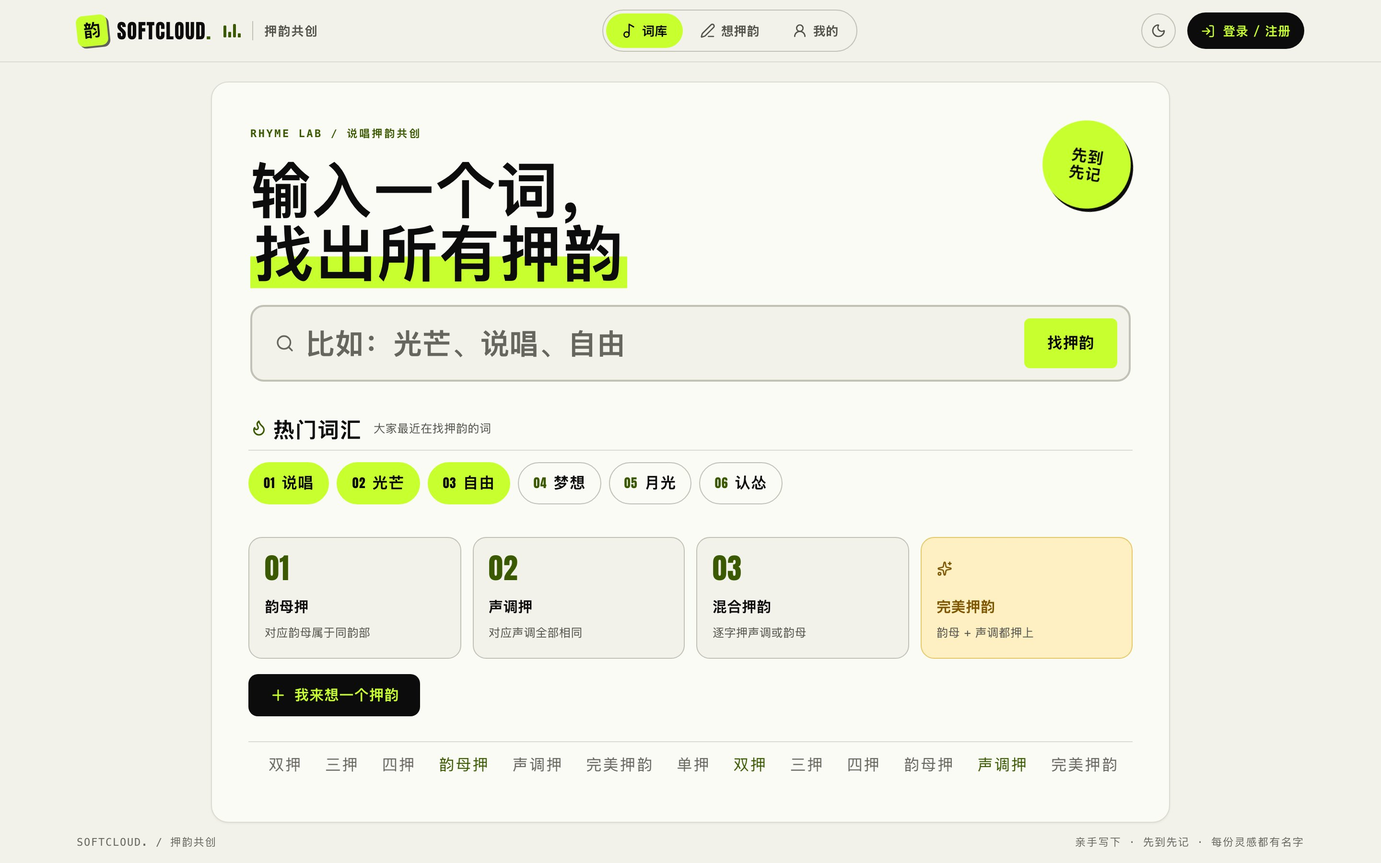
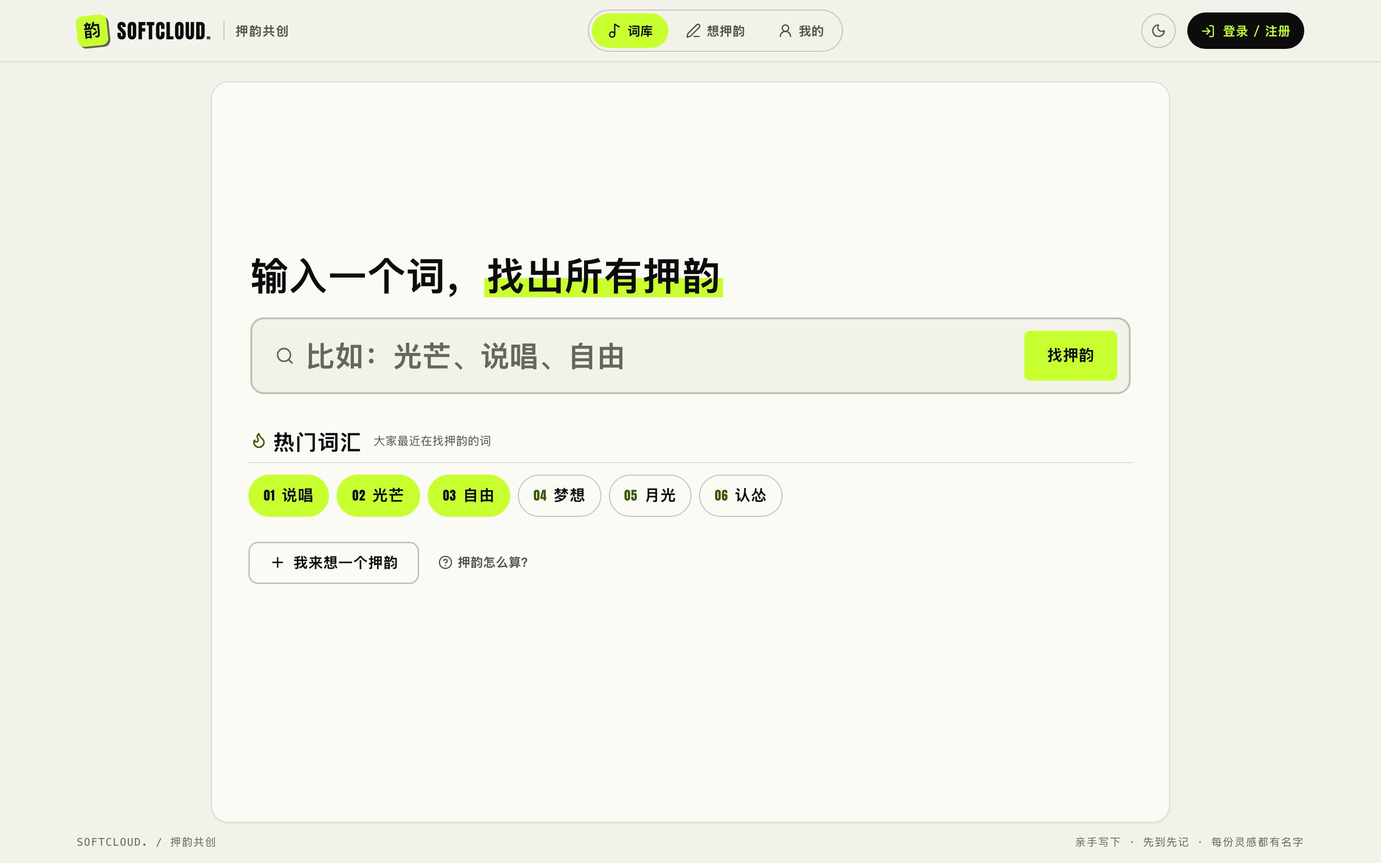
Simplify the homepage: search first, rules behind one link (#8)
The homepage had nine things competing for attention. Keep what the page
is for: a one-line headline, the search box, one row of hot words, and a
quiet 我来想一个押韵 button.

- The four rule cards move into a 押韵怎么算？ sheet (new RulesSheet),
  the single place the scoring rules are explained.
- Remove the RHYME LAB eyebrow, the 先到先记 sticker, the scrolling
  ticker and the header equalizer; 先到先记 now appears in the success
  message after a save, where it is true.
- Desktop centers the idle search; phones keep the headline on one line
  down to 320px. Drops the styles nothing uses any more.

diff --git a/src/style.css b/src/style.css
@@ -110,8 +110,6 @@ select{color:var(--sc-text)}
 @keyframes sc-pop{from{opacity:0;transform:translateY(14px) scale(.97)}to{opacity:1;transform:none}}
 @keyframes sc-drop{0%{opacity:0;transform:translateY(-6px) rotate(var(--sc-tilt,0deg)) scale(1.2)}60%{opacity:1;transform:rotate(var(--sc-tilt,0deg)) scale(.94)}100%{transform:rotate(var(--sc-tilt,0deg)) scale(1)}}
 @keyframes sc-bounce{0%,100%{transform:rotate(var(--sc-tilt,0deg)) translateY(0)}35%{transform:rotate(var(--sc-tilt,0deg)) translateY(-3px)}}
-@keyframes sc-eq{0%,100%{transform:scaleY(.3)}50%{transform:scaleY(1)}}
-@keyframes sc-ticker{to{transform:translateX(-50%)}}
 @keyframes sc-thump{0%{transform:scale(1)}30%{transform:scale(.95)}100%{transform:scale(1)}}
 
 /* ---------- Primitives ---------- */
@@ -160,11 +158,6 @@ select{color:var(--sc-text)}
 .sc-brand:hover .sc-brand-mark{transform:rotate(4deg) scale(1.06)}
 .sc-wordmark{font-family:var(--sc-font-display);font-size:21px;font-weight:400;letter-spacing:.04em;text-transform:uppercase;line-height:1}
 .sc-dot{color:var(--sc-accent-text)}
-.sc-eq{display:inline-flex;align-items:flex-end;gap:2px;height:14px;margin-left:2px}
-.sc-eq i{display:block;width:3px;height:100%;border-radius:1px;background:var(--sc-accent-text);transform-origin:bottom;transform:scaleY(.4);animation:sc-eq var(--sc-beat) var(--sc-ease) infinite}
-.sc-eq i:nth-child(2){animation-delay:calc(var(--sc-beat) * -.5)}
-.sc-eq i:nth-child(3){animation-delay:calc(var(--sc-beat) * -.25)}
-.sc-eq i:nth-child(4){animation-delay:calc(var(--sc-beat) * -.75)}
 .sc-product-name{font-size:var(--sc-text-sm);font-weight:700;color:var(--sc-muted);letter-spacing:.06em;padding-left:12px;margin-left:2px;border-left:1px solid var(--sc-border-strong)}
 .sc-header nav{display:flex;gap:2px;margin:auto;padding:3px;border-radius:var(--sc-radius-pill);border:1px solid var(--sc-border-strong)}
 .sc-header nav button{display:flex;align-items:center;gap:6px;min-height:36px;padding:7px 16px;border-radius:var(--sc-radius-pill);color:var(--sc-muted);font-size:var(--sc-text-sm);font-weight:700;white-space:nowrap}
@@ -220,7 +213,6 @@ select{color:var(--sc-text)}
 .sc-finder-head{position:relative;flex-shrink:0;margin-bottom:var(--sc-space-4)}
 .sc-finder-head h2,.sc-start h2,.sc-group-title,.sc-profile-gate h2{word-break:keep-all;text-wrap:balance}
 .sc-finder-head h2{font-family:var(--sc-font-display);font-size:var(--sc-text-xl);font-weight:900;line-height:1.15;letter-spacing:.01em}
-.sc-finder-head .sc-sticker{display:none;top:0;right:0}
 .sc-tier-head{display:flex;align-items:center;flex-wrap:wrap;gap:4px var(--sc-space-3);padding:var(--sc-space-3) 2px 10px;border-bottom:1px solid var(--sc-border)}
 .sc-tier-head h3{display:inline-flex;align-items:center;gap:6px;font-family:var(--sc-font-display);font-size:var(--sc-text-xl);font-weight:900;line-height:1.15;letter-spacing:.04em}
 .sc-tier-head h3 svg{color:var(--sc-accent-text)}
@@ -233,9 +225,27 @@ select{color:var(--sc-text)}
 .sc-hot-list li:nth-child(-n+3) .sc-hot-word{background:var(--sc-accent);border-color:var(--sc-accent);color:var(--sc-on-accent)}
 .sc-hot-list li:nth-child(-n+3) .sc-hot-word>span{color:inherit}
 .sc-hot-list li:nth-child(2) .sc-hot-word{animation-delay:40ms}.sc-hot-list li:nth-child(3) .sc-hot-word{animation-delay:80ms}.sc-hot-list li:nth-child(n+4) .sc-hot-word{animation-delay:120ms}
-.sc-finder-rules{display:flex;flex-direction:column;align-items:flex-start;gap:var(--sc-space-4);margin-top:var(--sc-space-8);flex-shrink:0}
-.sc-finder-rules .sc-rules{margin:0}
-.sc-finder-idle .sc-ticker{width:100%;margin:var(--sc-space-6) 0 0}
+.sc-finder-actions{display:flex;flex-wrap:wrap;align-items:center;gap:var(--sc-space-3) var(--sc-space-5);margin-top:var(--sc-space-6);flex-shrink:0}
+/* Secondary call to action: outlined, so the search stays the one loud thing on the page. */
+.sc-btn-quiet{background:transparent;color:var(--sc-text);box-shadow:inset 0 0 0 1.5px var(--sc-border-strong)}
+@media(hover:hover){.sc-btn-quiet:hover:enabled{background:transparent;color:var(--sc-accent-text);box-shadow:inset 0 0 0 1.5px var(--sc-accent-text);transform:none}}
+.sc-rules-link{color:var(--sc-muted)}
+.sc-rules-link:hover:enabled{color:var(--sc-text)}
+/* Idle hot words stay on one scrollable line. */
+.sc-finder-idle .sc-hot-list{flex-wrap:nowrap;overflow-x:auto;scrollbar-width:none;padding:4px 2px;margin:-4px -2px;mask-image:linear-gradient(90deg,#000 calc(100% - 28px),transparent)}
+.sc-finder-idle .sc-hot-list::-webkit-scrollbar{display:none}
+.sc-finder-idle .sc-hot-list li{flex-shrink:0}
+.sc-start-rules{margin-top:var(--sc-space-4)}
+.sc-rules-list{display:flex;flex-direction:column;gap:var(--sc-space-2);margin:0;padding:0;list-style:none}
+.sc-rules-list li{display:grid;grid-template-columns:36px minmax(0,1fr) auto;align-items:center;gap:var(--sc-space-3);padding:var(--sc-space-3) var(--sc-space-4);border:1px solid var(--sc-border-strong);border-radius:var(--sc-radius-lg);background:var(--sc-bg)}
+.sc-rules-no{display:flex;align-items:center;font-family:var(--sc-font-display);font-size:var(--sc-text-xl);color:var(--sc-accent-text);letter-spacing:.02em}
+.sc-rules-list strong{display:block;font-size:var(--sc-text-base);font-weight:900}
+.sc-rules-list small{display:block;font-size:var(--sc-text-xs);color:var(--sc-muted);line-height:1.6}
+.sc-rules-list em{display:block;margin-top:2px;font-style:normal;font-size:var(--sc-text-xs);font-weight:700;color:var(--sc-text)}
+.sc-rules-list b{font-family:var(--sc-font-display);font-weight:400;font-size:var(--sc-text-xl);color:var(--sc-accent-text);letter-spacing:.04em}
+.sc-rules-list .sc-gold-rule .sc-rules-no,.sc-rules-list .sc-gold-rule b{color:var(--sc-gold)}
+.sc-rules-sheet>p{margin:var(--sc-space-3) 0 var(--sc-space-5)}
+.sc-rules-sheet>.sc-rules-note{margin:var(--sc-space-4) 0 0;font-size:var(--sc-text-xs)}
 .sc-tier-section{display:flex;flex-direction:column;flex-shrink:0;padding-bottom:var(--sc-space-4);animation:sc-rise .4s var(--sc-ease-out) both}
 .sc-tier-section .sc-tier-head{position:sticky;top:0;z-index:1;background:var(--sc-panel-bg,var(--sc-bg))}
 .sc-tier-section .sc-tier-head h3{--sc-tilt:-3deg;padding:3px 10px;border-radius:5px;border:1.5px solid currentColor;color:var(--sc-muted);font-size:var(--sc-text-lg);transform:rotate(var(--sc-tilt))}
@@ -258,23 +268,14 @@ select{color:var(--sc-text)}
 .sc-start>*{position:relative}
 .sc-start-icon{display:flex;justify-content:center;align-items:center;width:56px;height:56px;margin:0 0 var(--sc-space-6);border-radius:50%;background:var(--sc-text);color:var(--sc-bg)}
 .sc-record-icon svg{animation:sc-spin calc(var(--sc-beat) * 4) linear infinite}
-.sc-sticker{--sc-tilt:9deg;position:absolute!important;right:var(--sc-space-8);top:var(--sc-space-8);display:flex;align-items:center;justify-content:center;width:92px;height:92px;border-radius:50%;background:var(--sc-accent);color:var(--sc-on-accent);font-size:var(--sc-text-md);font-weight:900;line-height:1.15;text-align:center;letter-spacing:.04em;transform:rotate(var(--sc-tilt));box-shadow:var(--sc-sticker-shadow);animation:sc-bounce calc(var(--sc-beat) * 2) var(--sc-ease) infinite}
 .sc-start h2{font-family:var(--sc-font-display);font-size:var(--sc-text-4xl);font-weight:900;letter-spacing:-.01em;line-height:1.08;margin-bottom:var(--sc-space-5);max-width:12em}
 .sc-highlight{background:linear-gradient(transparent 58%,var(--sc-accent) 58%,var(--sc-accent) 92%,transparent 92%);color:inherit;padding:0 .06em;-webkit-box-decoration-break:clone;box-decoration-break:clone}
 :root:not([data-sc-theme=light]) .sc-highlight{background:none;color:var(--sc-accent)}
 .sc-start>p{font-size:var(--sc-text-base);line-height:1.85;color:var(--sc-muted);margin-bottom:var(--sc-space-8);max-width:30em}
 .sc-start>.sc-btn{min-height:52px;padding:12px 24px;font-size:var(--sc-text-md)}
-.sc-rules{display:grid;grid-template-columns:repeat(4,minmax(0,1fr));gap:var(--sc-space-3);width:100%;margin:var(--sc-space-10) 0 var(--sc-space-4);text-align:left}
-.sc-rules>div{min-width:0;padding:var(--sc-space-4);border:1px solid var(--sc-border-strong);border-radius:var(--sc-radius-lg);background:var(--sc-bg);transition:transform .25s var(--sc-ease-bounce),border-color var(--sc-dur) var(--sc-ease)}
-.sc-rules>div>span{display:flex;align-items:center;height:32px;font-family:var(--sc-font-display);font-size:var(--sc-text-2xl);line-height:1;color:var(--sc-accent-text);letter-spacing:.02em}
-.sc-rules strong{display:block;margin:var(--sc-space-3) 0 var(--sc-space-1);font-size:var(--sc-text-base);font-weight:900}
-.sc-rules p{font-size:var(--sc-text-xs);line-height:1.75;color:var(--sc-muted)}
 .sc-gold-rule{border-color:var(--sc-gold-border)!important;background:var(--sc-gold-soft)!important}
 .sc-gold-rule strong,.sc-gold-rule>span{color:var(--sc-gold)!important}
 .sc-start>small{color:var(--sc-subtle);font-size:var(--sc-text-xs)}
-.sc-ticker{width:calc(100% + var(--sc-space-12));margin:var(--sc-space-6) calc(var(--sc-space-6) * -1) 0;overflow:hidden;border-top:1px solid var(--sc-border);padding:10px 0;font-family:var(--sc-font-display);font-size:var(--sc-text-md);letter-spacing:.08em;color:var(--sc-subtle);white-space:nowrap;flex-shrink:0}
-.sc-ticker>div{display:inline-flex;gap:var(--sc-space-6);animation:sc-ticker calc(var(--sc-beat) * 64) linear infinite}
-.sc-ticker span:nth-child(4n+1){color:var(--sc-accent-text)}
 
 /* ---------- Lookup ---------- */
 .sc-group-title{flex-shrink:0;font-family:var(--sc-font-display);font-size:var(--sc-text-3xl);font-weight:900;line-height:1.1;letter-spacing:.01em}
@@ -639,18 +640,14 @@ details[open]>.sc-alignment,details[open]>.sc-lookup-source,details[open]>.sc-he
 /* ---------- Tablet ---------- */
 @media(max-width:1180px){
   .sc-product-name{display:none}
-  .sc-rules{grid-template-columns:repeat(2,minmax(0,1fr))}
-  .sc-sticker{display:none!important}
 }
 @media(max-width:920px) and (min-width:761px){
   .sc-header-inner{gap:var(--sc-space-3)}
   .sc-header nav button{padding:7px 12px}
   .sc-header nav button svg{display:none}
   .sc-account-name{max-width:72px}
-  .sc-eq{display:none}
   .sc-game-grid{grid-template-columns:minmax(0,300px) minmax(0,1fr)}
   .sc-start{padding:var(--sc-space-6) var(--sc-space-2) 0}
-  .sc-ticker{width:calc(100% + var(--sc-space-4));margin-left:calc(var(--sc-space-2) * -1)}
 }
 
 /* ---------- Desktop: fixed workspace with independent scroll areas ---------- */
@@ -683,14 +680,13 @@ details[open]>.sc-alignment,details[open]>.sc-lookup-source,details[open]>.sc-he
   .sc-app[data-mobile-screen=library] .sc-play-panel{display:none!important}
   .sc-app[data-mobile-screen=library] .sc-finder{width:min(100%,1000px);margin:0 auto;padding:var(--sc-space-10) var(--sc-space-10) var(--sc-space-4)}
   .sc-app[data-mobile-screen=library] .sc-finder-head{margin-bottom:var(--sc-space-6)}
-  .sc-app[data-mobile-screen=library] .sc-finder-head h2{max-width:11em;margin-top:var(--sc-space-1);font-size:var(--sc-text-4xl);line-height:1.05}
-  .sc-app[data-mobile-screen=library] .sc-finder-head .sc-sticker{display:flex}
+  .sc-app[data-mobile-screen=library] .sc-finder:has(.sc-finder-idle){justify-content:center;padding-bottom:12vh}
+  .sc-app[data-mobile-screen=library] .sc-finder-idle{flex:0 0 auto;overflow:visible}
+  .sc-app[data-mobile-screen=library] .sc-finder-head h2{white-space:nowrap;margin-top:var(--sc-space-1);font-size:var(--sc-text-3xl);line-height:1.1}
   .sc-app[data-mobile-screen=library] .sc-search{min-height:76px;margin-bottom:var(--sc-space-6);padding:0 12px 0 24px;border-width:2px;border-radius:var(--sc-radius-lg)}
   .sc-app[data-mobile-screen=library] .sc-search input{padding:14px 4px;font-size:var(--sc-text-2xl);font-weight:800}
   .sc-app[data-mobile-screen=library] .sc-search button[type=submit]{min-height:52px;padding:8px 24px;font-size:var(--sc-text-md)}
   .sc-app[data-mobile-screen=library] .sc-chip-grid{grid-template-columns:repeat(auto-fill,minmax(150px,1fr))}
-  .sc-app:not([data-mobile-screen=library]) .sc-finder-head .sc-eyebrow{display:none}
-  .sc-app:not([data-mobile-screen=library]) .sc-finder-rules,.sc-app:not([data-mobile-screen=library]) .sc-finder-idle .sc-ticker{display:none}
   .sc-group-panel>.sc-group-title{flex-shrink:0}
 }
 @media(min-width:761px) and (max-height:820px){
@@ -699,10 +695,6 @@ details[open]>.sc-alignment,details[open]>.sc-lookup-source,details[open]>.sc-he
   .sc-start h2{font-size:var(--sc-text-3xl)}
   .sc-start>p{margin-bottom:var(--sc-space-5)}
   .sc-app[data-mobile-screen=library] .sc-finder{padding-top:var(--sc-space-6)}
-  .sc-app[data-mobile-screen=library] .sc-finder-head h2{font-size:var(--sc-text-3xl)}
-  .sc-finder-rules{display:none}
-  .sc-rules{margin-top:var(--sc-space-6)}
-  .sc-sticker{width:76px;height:76px;font-size:var(--sc-text-sm);top:var(--sc-space-5)}
   .sc-page-heading{padding:var(--sc-space-4) 0}
   .sc-page-heading h1{font-size:var(--sc-text-3xl)}
 }
@@ -710,7 +702,7 @@ details[open]>.sc-alignment,details[open]>.sc-lookup-source,details[open]>.sc-he
   .sc-header-inner{min-height:56px}
   .sc-main{padding-top:var(--sc-space-3)}
   .sc-game-grid>.sc-panel{padding:var(--sc-space-4)!important}
-  .sc-footer,.sc-ticker{display:none}
+  .sc-footer{display:none}
   .sc-start h2{font-size:var(--sc-text-2xl)}
   .sc-compose-heading .sc-eyebrow,.sc-compose-intro,.sc-word-help{display:none}
   .sc-compose-heading h2{font-size:var(--sc-text-xl)}
@@ -728,7 +720,7 @@ details[open]>.sc-alignment,details[open]>.sc-lookup-source,details[open]>.sc-he
   .sc-header{padding-top:env(safe-area-inset-top)}
   .sc-header-inner{min-height:56px;padding:6px 0;flex-wrap:nowrap;gap:var(--sc-space-3)}
   .sc-brand{gap:10px}
-  .sc-wordmark,.sc-eq{display:none}
+  .sc-wordmark{display:none}
   .sc-brand-mark{width:30px;height:30px}
   .sc-product-name{display:block;border:0;padding:0;margin:0;font-family:var(--sc-font-display);font-size:var(--sc-text-lg);font-weight:900;color:var(--sc-text);letter-spacing:.04em}
   .sc-header nav{display:none}
@@ -752,11 +744,11 @@ details[open]>.sc-alignment,details[open]>.sc-lookup-source,details[open]>.sc-he
   .sc-app[data-mobile-screen=lookup] .sc-play-panel,.sc-app[data-mobile-screen=compose] .sc-play-panel{display:flex;flex-direction:column}
 
   .sc-finder-head{margin-bottom:var(--sc-space-3)}
-  .sc-finder-head .sc-eyebrow{font-size:10px;margin-bottom:4px;letter-spacing:.12em}
-  .sc-finder-head h2{font-size:var(--sc-text-2xl);line-height:1.15}
+  .sc-finder-head h2{font-size:clamp(20px,6.6vw,26px);line-height:1.2;white-space:nowrap}
   .sc-search{flex-shrink:0;min-height:56px;border-width:2px}
   .sc-chip-grid{grid-template-columns:repeat(2,minmax(0,1fr))}
-  .sc-finder-rules .sc-btn{width:100%;min-height:52px}
+  .sc-finder-actions .sc-btn{flex:1 1 100%;min-height:50px}
+  .sc-finder-actions .sc-rules-link{margin:0 auto}
   .sc-group-title{font-size:var(--sc-text-2xl)}
   .sc-member{font-size:var(--sc-text-lg);min-height:44px;padding:7px 14px}
   .sc-search input{font-size:16px}
@@ -908,7 +900,6 @@ html[data-sc-keyboard=true] .sc-bottom-nav{display:none}
   .sc-btn:hover:enabled{background:var(--sc-btn-hover);transform:translate(-2px,-2px);box-shadow:var(--sc-sticker-shadow)}
   .sc-hot-word:hover{border-color:var(--sc-accent-text);transform:translateY(-2px) rotate(-1.5deg)}
   .sc-word-chip:hover{border-color:var(--sc-accent-text);transform:translateY(-2px)}
-  .sc-rules>div:hover{transform:translateY(-3px) rotate(-.6deg);border-color:var(--sc-accent-text)}
   .sc-tier-head:hover h3{animation:sc-bounce var(--sc-beat) var(--sc-ease) 2}
 }
 /* Short phones (e.g. 320×640): drop secondary copy so the check list keeps real room to scroll. */

diff --git a/src/main.tsx b/src/main.tsx
@@ -1,6 +1,6 @@
 import React, { useEffect, useMemo, useRef, useState } from 'react';
 import { createRoot } from 'react-dom/client';
-import { Plus, Sparkles, X, LogIn, ArrowLeft, BookOpen, PenLine, UserRound, Shield, Search, Music2, LoaderCircle, ChevronRight, Trash2, Disc3, Eye, EyeOff } from 'lucide-react';
+import { Plus, X, LogIn, ArrowLeft, BookOpen, PenLine, UserRound, Shield, Search, Music2, LoaderCircle, ChevronRight, Trash2, Disc3, Eye, EyeOff } from 'lucide-react';
 import { kindLabels, markedPinyin, normalize, validateText } from '../shared/rhyme-core';
 import { compareMutual, validatePairWorkload } from '../shared/pair-comparison';
 import { isSpoken, spokenFixes } from '../shared/spoken';
@@ -13,6 +13,7 @@ import { ThemeToggle } from './ThemeToggle';
 import { Alignment } from './Alignment';
 import { RhymeFinder } from './RhymeFinder';
 import { RhymeGroup } from './RhymeGroup';
+import { RulesLink } from './RulesSheet';
 import { AdminConsole, AdminGate } from './AdminConsole';
 import { hotSearchKey } from '../shared/library';
 import type { HotWord, RhymeSearch, SearchWord } from '../shared/library';
@@ -240,7 +241,7 @@ function App(){
     if(unconfirmedRef.current?.requestId===saved.requestId&&unconfirmedRef.current.userId===saved.userId)rememberSubmission(null);setSubmitError('');
     if(draftRef.current.requestId===saved.requestId){setDraft({items:[blankItem(),blankItem()],requestId:crypto.randomUUID()});setPreview(null);setPane('write');}
     if(!data.replayed)setUser(previous=>previous?.id===saved.userId?{...previous,score:previous.score+data.points}:previous);
-    const message=`已收录 ${data.pairs.length} 对原创押韵，+${data.points} 分${data.replayed?'；已确认原提交，没有重复加分':''}。`;
+    const message=`已收录 ${data.pairs.length} 对原创押韵，+${data.points} 分${data.replayed?'；已确认原提交，没有重复加分。':'。先到先记，首创归你。'}`;
     setNotice(message);
     const updates=await Promise.allSettled([refreshUser(),loadWords(wordAttempt.current.q),refreshActiveRecords()]);
     if(updates.some(result=>result.status==='rejected'||result.value===false))setNotice(message+' 记录已保存，显示暂未刷新；可在“我的”查看。');
@@ -313,11 +314,11 @@ function App(){
   </form>;
 
   return <div className="sc-app" data-mobile-screen={screen} data-view={view}>
-    <header className="sc-header" inert={dialogOpen}><div className="sc-shell sc-header-inner"><a className="sc-brand" href="/" onClick={e=>{e.preventDefault();showLibrary();}}><span className="sc-brand-mark" aria-hidden="true">韵</span><span className="sc-wordmark">softcloud<span className="sc-dot">.</span></span><span className="sc-eq" aria-hidden="true"><i/><i/><i/><i/></span><span className="sc-product-name">押韵共创</span></a><nav aria-label="主导航"><button className={view==='library'&&screen!=='compose'?'sc-nav-active':''} aria-current={view==='library'&&screen!=='compose'?'page':undefined} onClick={showLibrary}><Music2 size={16}/>词库</button><button className={view==='library'&&screen==='compose'?'sc-nav-active':''} aria-current={view==='library'&&screen==='compose'?'page':undefined} onClick={()=>openComposer()}><PenLine size={16}/>想押韵</button><button className={view==='mine'?'sc-nav-active':''} aria-current={view==='mine'?'page':undefined} onClick={()=>navigate('mine')}><UserRound size={16}/>我的</button>{user?.role==='admin'&&<button className={view==='admin'?'sc-nav-active':''} aria-current={view==='admin'?'page':undefined} onClick={()=>navigate('admin')}><Shield size={16}/>管理</button>}</nav><div className="sc-account"><ThemeToggle/>{user?<><span className="sc-account-name">{user.username}</span><span className="sc-points">{user.score} 分</span><button className="sc-link" disabled={busy} onClick={logout}>退出</button></>:<button className="sc-btn sc-btn-small" disabled={!ready} onClick={()=>openAuth()}><LogIn size={15}/>登录 / 注册</button>}</div></div></header>
+    <header className="sc-header" inert={dialogOpen}><div className="sc-shell sc-header-inner"><a className="sc-brand" href="/" onClick={e=>{e.preventDefault();showLibrary();}}><span className="sc-brand-mark" aria-hidden="true">韵</span><span className="sc-wordmark">softcloud<span className="sc-dot">.</span></span><span className="sc-product-name">押韵共创</span></a><nav aria-label="主导航"><button className={view==='library'&&screen!=='compose'?'sc-nav-active':''} aria-current={view==='library'&&screen!=='compose'?'page':undefined} onClick={showLibrary}><Music2 size={16}/>词库</button><button className={view==='library'&&screen==='compose'?'sc-nav-active':''} aria-current={view==='library'&&screen==='compose'?'page':undefined} onClick={()=>openComposer()}><PenLine size={16}/>想押韵</button><button className={view==='mine'?'sc-nav-active':''} aria-current={view==='mine'?'page':undefined} onClick={()=>navigate('mine')}><UserRound size={16}/>我的</button>{user?.role==='admin'&&<button className={view==='admin'?'sc-nav-active':''} aria-current={view==='admin'?'page':undefined} onClick={()=>navigate('admin')}><Shield size={16}/>管理</button>}</nav><div className="sc-account"><ThemeToggle/>{user?<><span className="sc-account-name">{user.username}</span><span className="sc-points">{user.score} 分</span><button className="sc-link" disabled={busy} onClick={logout}>退出</button></>:<button className="sc-btn sc-btn-small" disabled={!ready} onClick={()=>openAuth()}><LogIn size={15}/>登录 / 注册</button>}</div></div></header>
     <main className="sc-shell sc-main" inert={dialogOpen}>{notice&&<div role="status" className="sc-notice"><span>{notice}</span><button aria-label="关闭提示" onClick={()=>setNotice('')}><X size={16}/></button></div>}
     {view==='library'?<><h1 className="sc-screen-reader-only">押韵共创 · {screen==='compose'?'想押韵':screen==='lookup'?'押韵互查':'词库'}</h1>
-      <div className="sc-game-grid"><aside className="sc-panel sc-topic-panel sc-finder"><div className="sc-finder-head"><span className="sc-eyebrow">RHYME LAB / 说唱押韵共创</span><span className="sc-sticker" aria-hidden="true">先到<br/>先记</span><h2>输入一个词，<span className="sc-highlight">找出所有押韵</span></h2></div><form className="sc-search" role="search" onSubmit={e=>{e.preventDefault();commitSearch(query);}}><Search size={20}/><input aria-label="搜索押韵词" placeholder="比如：光芒、说唱、自由" value={query} onChange={e=>setQuery(e.target.value)} onCompositionStart={()=>{searchComposing.current=true;}} onCompositionEnd={()=>{searchComposing.current=false;setSearchComposition(value=>value+1);}} enterKeyHint="search"/>{query&&<button type="button" className="sc-search-clear" aria-label="清空搜索" onClick={()=>{setQuery('');loadWords('');document.querySelector<HTMLInputElement>('[aria-label="搜索押韵词"]')?.focus();}}><X size={16}/></button>}<button type="submit" aria-label="搜索">找押韵</button></form><RhymeFinder search={search} query={appliedQuery} hot={hot} loading={wordLoading} error={wordError} selectedId={lookupWord?.id} onWord={selectWord} onCompose={openComposer} onHot={commitSearch} onRetry={()=>loadWords(wordAttempt.current.q)}/></aside>
-      <section className="sc-panel sc-play-panel" aria-label={screen==='compose'?'想押韵':'押韵互查'}>{screen==='compose'?composer:screen==='lookup'&&lookupWord?<RhymeGroup word={lookupWord} items={rhymes} loading={rhymeLoading} error={rhymeError} more={rhymeMore} onWord={selectWord} onMore={()=>selectWord(lookupWord,rhymePage+1)} onRetry={()=>selectWord(lookupWord,rhymes.length?rhymePage+1:0)} onCompose={openComposer} onBack={showLibrary} date={date}/>:<div className="sc-start"><div className="sc-start-icon sc-record-icon"><Disc3 size={48} strokeWidth={1.35} aria-hidden="true"/></div><span className="sc-eyebrow">RHYME LAB / 说唱押韵共创</span><span className="sc-sticker" aria-hidden="true">先到<br/>先记</span><h2>选一个词，<span className="sc-highlight">找到整组灵感</span></h2><p>选词互查，或写下你自己的押韵。<br/>每对关系，只记录最先提交者。</p><button className="sc-btn" onClick={()=>openComposer()}><Plus size={18}/>我来想一个押韵</button><div className="sc-rules"><div><span>01</span><strong>韵母押</strong><p>对应韵母属于同韵部<br/>得 N 分</p></div><div><span>02</span><strong>声调押</strong><p>对应声调全部相同<br/>得 N 分</p></div><div><span>03</span><strong>混合押韵</strong><p>逐字押声调或韵母<br/>得 N 分</p></div><div className="sc-gold-rule"><span><Sparkles size={16}/></span><strong>完美押韵</strong><p>韵母 + 声调都押上<br/>得 2N 分</p></div></div><small>N 是两个词中较短的汉字数，比较双方末尾 N 字。</small><div className="sc-ticker" aria-hidden="true"><div>{[0,1].map(round=>['单押','双押','三押','韵母押','声调押','混合押韵','完美押韵'].map(label=><span key={round+label}>{label}</span>))}</div></div></div>}</section></div>
+      <div className="sc-game-grid"><aside className="sc-panel sc-topic-panel sc-finder"><div className="sc-finder-head"><h2>输入一个词，<span className="sc-highlight">找出所有押韵</span></h2></div><form className="sc-search" role="search" onSubmit={e=>{e.preventDefault();commitSearch(query);}}><Search size={20}/><input aria-label="搜索押韵词" placeholder="比如：光芒、说唱、自由" value={query} onChange={e=>setQuery(e.target.value)} onCompositionStart={()=>{searchComposing.current=true;}} onCompositionEnd={()=>{searchComposing.current=false;setSearchComposition(value=>value+1);}} enterKeyHint="search"/>{query&&<button type="button" className="sc-search-clear" aria-label="清空搜索" onClick={()=>{setQuery('');loadWords('');document.querySelector<HTMLInputElement>('[aria-label="搜索押韵词"]')?.focus();}}><X size={16}/></button>}<button type="submit" aria-label="搜索">找押韵</button></form><RhymeFinder search={search} query={appliedQuery} hot={hot} loading={wordLoading} error={wordError} selectedId={lookupWord?.id} onWord={selectWord} onCompose={openComposer} onHot={commitSearch} onRetry={()=>loadWords(wordAttempt.current.q)}/></aside>
+      <section className="sc-panel sc-play-panel" aria-label={screen==='compose'?'想押韵':'押韵互查'}>{screen==='compose'?composer:screen==='lookup'&&lookupWord?<RhymeGroup word={lookupWord} items={rhymes} loading={rhymeLoading} error={rhymeError} more={rhymeMore} onWord={selectWord} onMore={()=>selectWord(lookupWord,rhymePage+1)} onRetry={()=>selectWord(lookupWord,rhymes.length?rhymePage+1:0)} onCompose={openComposer} onBack={showLibrary} date={date}/>:<div className="sc-start"><div className="sc-start-icon sc-record-icon"><Disc3 size={48} strokeWidth={1.35} aria-hidden="true"/></div><h2>选一个词，<span className="sc-highlight">找到整组灵感</span></h2><p>选词互查，或写下你自己的押韵。<br/>每对关系，只记录最先提交者。</p><button className="sc-btn" onClick={()=>openComposer()}><Plus size={18}/>我来想一个押韵</button><RulesLink className="sc-start-rules"/></div>}</section></div>
     </>:view==='admin'?(!ready?<section className="sc-panel sc-record-panel"><div className="sc-empty" role="status"><LoaderCircle size={24} className="sc-spin"/><p>正在确认登录状态…</p></div></section>:user?.role==='admin'?<AdminConsole me={user} onSessionExpired={()=>sessionExpired()} onChanged={()=>{refreshUser().catch(()=>{});if(wordAttempt.current.q)loadWords(wordAttempt.current.q);}}/>:<AdminGate onLogin={()=>openAuth()}/>):<><div className="sc-page-heading"><div><div className="sc-eyebrow">{view==='mine'?'灵感档案':'内容与账号'}</div><h1>{view==='mine'?'我的押韵':'共创管理'}<span>.</span></h1><p>{view==='mine'?`你的原创积累，共 ${user?.score||0} 分。`:'撤回后保留首次归属，关联积分自动扣回。'}</p></div></div><section className="sc-panel sc-record-panel">{!ready?<div className="sc-empty" role="status"><LoaderCircle size={24} className="sc-spin"/><p>正在确认登录状态…</p></div>:!user?<div className="sc-profile-gate"><div className="sc-start-icon"><UserRound size={30}/></div><h2>让灵感有个名字</h2><p>登录后，你的押韵与积分<br/>都会留在创作档案里。</p><button className="sc-btn" onClick={()=>openAuth()}>登录 / 注册</button></div>:<><div className="sc-mobile-only sc-profile-summary"><div><strong>{user.username}</strong><span>{user.score} 分 · 我的原创积累</span></div><button className="sc-link" disabled={busy} onClick={logout}>退出登录</button></div><div className="sc-tabs" role="tablist" aria-label={view==='mine'?'我的记录':'管理记录'}>{recordTabs.map(tab=><button key={tab} role="tab" id={`records-tab-${tab}`} aria-controls="records-panel" aria-selected={recordTab===tab} tabIndex={recordTab===tab?0:-1} className={recordTab===tab?'sc-tab-active':''} onClick={()=>setRecordTab(tab)} onKeyDown={e=>{if(['ArrowLeft','ArrowRight','Home','End'].includes(e.key)){e.preventDefault();const index=recordTabs.indexOf(tab),next=e.key==='Home'?recordTabs[0]:e.key==='End'?recordTabs[recordTabs.length-1]:recordTabs[(index+(e.key==='ArrowRight'?1:recordTabs.length-1))%recordTabs.length];setRecordTab(next);document.getElementById(`records-tab-${next}`)?.focus();}}}>{({pairs:'押韵关系',scoreEntries:'积分来源',users:'账号',logs:'处理记录'})[tab]}</button>)}</div>{recordError&&<div className="sc-inline-state" role="alert"><p>{recordError}</p><button className="sc-link" onClick={()=>loadRecords(view,recordAttempt.current)}>重新读取记录</button></div>}<div className="sc-records" id="records-panel" role="tabpanel" tabIndex={0} aria-labelledby={`records-tab-${recordTab}`} aria-busy={recordLoading}>{recordLoading&&!records?<div className="sc-empty"><LoaderCircle size={24} className="sc-spin"/><p>正在读取记录…</p></div>:!records?null:<>
       {recordTab==='pairs'&&records.pairs.map(pair=><article className="sc-record" key={pair.id}><div><strong>{pair.left.text} ↔ {pair.right.text}</strong><p>{kindLabels[pair.kind]} · {pair.n} 押 · {pair.author} 最先提交</p><small>{date(pair.created_at)} · {pair.status==='withdrawn'?'已撤回':`+${pair.points} 分`}</small><RecordedDetails pair={pair}/></div></article>)}
       {recordTab==='scoreEntries'&&records.scoreEntries?.map(entry=><article className="sc-record" key={entry.id}><div><strong>{entry.left_text} ↔ {entry.right_text}</strong><p>{entry.source==='legacy'?'历史积分':'原创押韵积分'} · {date(entry.created_at)}</p><small>{entry.active?`+${entry.points} 分`:'已撤回 / 不计分'}</small></div></article>)}

diff --git a/src/RulesSheet.tsx b/src/RulesSheet.tsx
@@ -1,0 +1,39 @@
+import React, { useEffect, useRef, useState } from 'react';
+import { createPortal } from 'react-dom';
+import { CircleHelp, Sparkles, X } from 'lucide-react';
+
+const rules = [
+  { no: '01', name: '韵母押', rule: '每个位置的韵母同韵部', score: 'N', example: '说唱 ↔ 多光' },
+  { no: '02', name: '声调押', rule: '每个位置的声调相同', score: 'N', example: '山河 ↔ 斑驳' },
+  { no: '03', name: '混合押韵', rule: '每个位置押韵母或声调之一', score: 'N', example: '山河天地人 ↔ 风云星底任' },
+  { no: '✦', name: '完美押韵', rule: '韵母与声调全部押上', score: '2N', example: '光芒 ↔ 苍茫', gold: true },
+];
+
+// The one place the scoring rules are explained; the homepage only links to it.
+// The dialog is portaled to <body> so animated or transformed ancestors cannot trap the fixed overlay.
+export function RulesLink({ className = '' }: { className?: string }) {
+  const [open, setOpen] = useState(false), opener = useRef<HTMLButtonElement>(null), close = useRef<HTMLButtonElement>(null);
+  useEffect(() => {
+    if (!open) return;
+    close.current?.focus();
+    const key = (e: KeyboardEvent) => { if (e.key === 'Escape') setOpen(false); };
+    document.addEventListener('keydown', key);
+    return () => { document.removeEventListener('keydown', key); opener.current?.focus(); };
+  }, [open]);
+  return <>
+    <button ref={opener} type="button" className={`sc-link sc-rules-link ${className}`} onClick={() => setOpen(true)}><CircleHelp size={15}/>押韵怎么算？</button>
+    {open && createPortal(<div className="sc-overlay" onClick={e => { if (e.target === e.currentTarget) setOpen(false); }}>
+      <section className="sc-modal sc-rules-sheet" role="dialog" aria-modal="true" aria-labelledby="rules-title">
+        <button ref={close} className="sc-modal-close" aria-label="关闭" onClick={() => setOpen(false)}><X/></button>
+        <h2 id="rules-title">押韵怎么算</h2>
+        <p>两个词按较短一方的字数 N 对齐末尾，逐字比较；每个位置至少押上韵母或声调中的一项。</p>
+        <ol className="sc-rules-list">{rules.map(r => <li key={r.name} className={r.gold ? 'sc-gold-rule' : ''}>
+          <span className="sc-rules-no">{r.gold ? <Sparkles size={16}/> : r.no}</span>
+          <div><strong>{r.name}</strong><small>{r.rule}</small><em>{r.example}</em></div>
+          <b>+{r.score}</b>
+        </li>)}</ol>
+        <p className="sc-rules-note">常见口语读音（如「怂」读 sóng）可以在读音里选用。每对押韵只记录最先提交的人。</p>
+      </section>
+    </div>, document.body)}
+  </>;
+}

diff --git a/src/RhymeFinder.tsx b/src/RhymeFinder.tsx
@@ -2,6 +2,7 @@ import React from 'react';
 import { ChevronRight, Flame, LoaderCircle, Mic2, Plus, Sparkles } from 'lucide-react';
 import { kindLabels, markedPinyin, normalize } from '../shared/rhyme-core';
 import type { HotWord, RhymeSearch, SearchMatch, SearchTier, SearchWord } from '../shared/library';
+import { RulesLink } from './RulesSheet';
 
 type Props = {
   search: RhymeSearch|null; query: string; hot: HotWord[]|null; loading: boolean; error: string; selectedId?: string;
@@ -42,11 +43,10 @@ function HotWords({ hot, onHot }: { hot: HotWord[]|null; onHot: (text: string) =
 function Idle({ hot, onHot, onCompose }: Pick<Props, 'hot' | 'onHot' | 'onCompose'>) {
   return <div className="sc-topic-list sc-finder-idle">
     <HotWords hot={hot} onHot={onHot}/>
-    <div className="sc-finder-rules">
-      <div className="sc-rules"><div><span>01</span><strong>韵母押</strong><p>对应韵母属于同韵部</p></div><div><span>02</span><strong>声调押</strong><p>对应声调全部相同</p></div><div><span>03</span><strong>混合押韵</strong><p>逐字押声调或韵母</p></div><div className="sc-gold-rule"><span><Sparkles size={16}/></span><strong>完美押韵</strong><p>韵母 + 声调都押上</p></div></div>
-      <button type="button" className="sc-btn" onClick={() => onCompose()}><Plus size={18}/>我来想一个押韵</button>
+    <div className="sc-finder-actions">
+      <button type="button" className="sc-btn sc-btn-quiet" onClick={() => onCompose()}><Plus size={17}/>我来想一个押韵</button>
+      <RulesLink/>
     </div>
-    <div className="sc-ticker" aria-hidden="true"><div>{[0, 1].map(round => ['单押', '双押', '三押', '四押', '韵母押', '声调押', '完美押韵'].map(label => <span key={round + label}>{label}</span>))}</div></div>
   </div>;
 }
 
